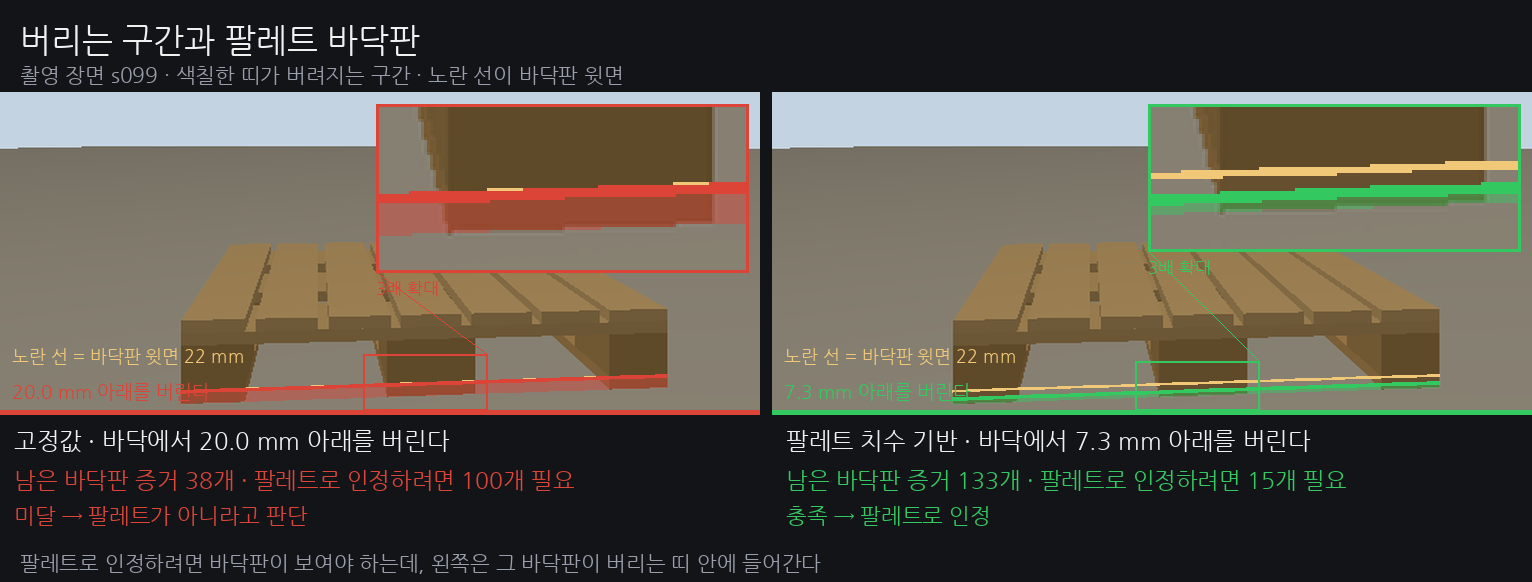
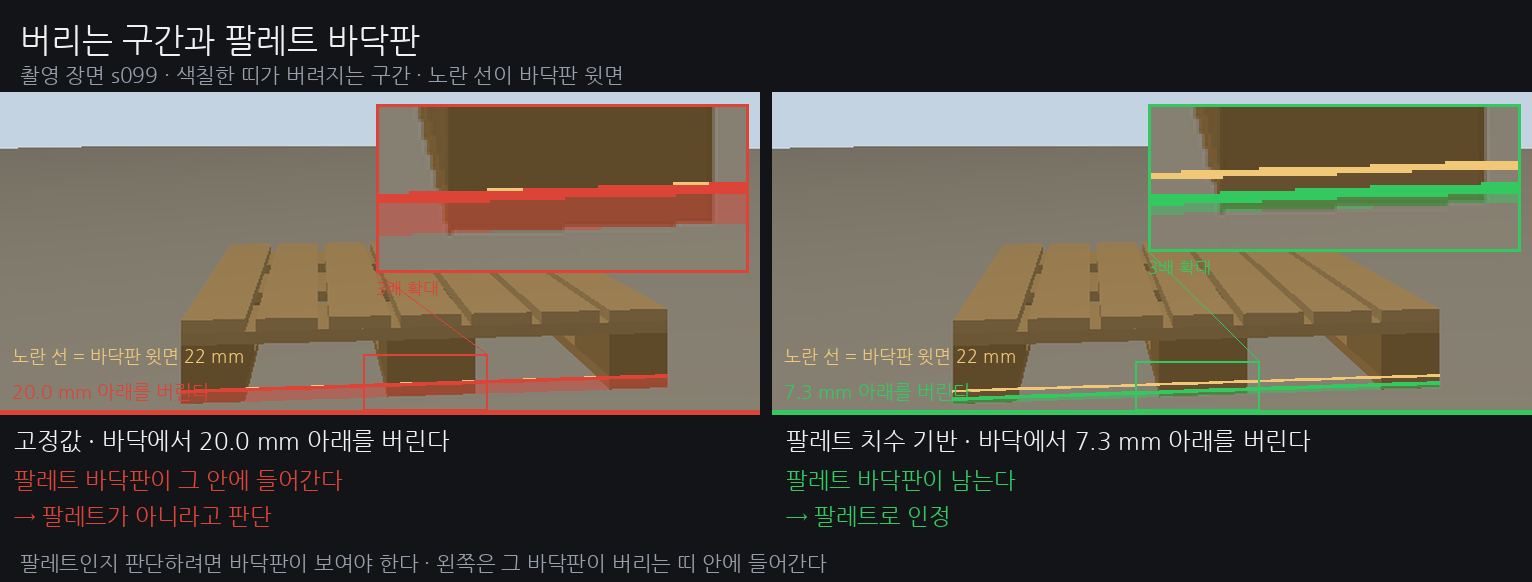
fix: say what the terms mean before the slide that uses them
Slides 5 and 6 assumed the audience already knew why a detector throws away
points near the floor, what counts as evidence that something is a pallet, and
why the required point count changes with pallet size. None of that was stated
anywhere in the deck, so the figures were being handed to people with no way to
read them.

Slide 4 now ends on the rule the later slides lean on: 기둥·빈 칸·위아래 판이
함께 보여야 팔레트로 인정. Slide 5 states in one line why near-floor points are
discarded and why 20 mm is the wrong height for a 22 mm board, and its figure
drops the two threshold numbers it could not explain. Slide 6 keeps them and
adds the reason they shrink: a smaller pallet returns fewer points from the
same part.

Claude-Session: https://claude.ai/code/session_01EDwbqCR7d7ymZ6Gm99cASC

Changed region(s): [[0.0, 0.8041, 0.3681, 0.8969], [0.4909, 0.8041, 0.8897, 0.9278], [0.0614, 0.9278, 0.5522, 0.9897]]

diff --git a/week-03/index.html b/week-03/index.html
@@ -57,7 +57,7 @@ EPAL 6 캡처와 평가: docs/validation/2026-09-14-epal6-capture-and-evaluation
 [/Sources]" style="background:#fff">
 <x-import component-from-global-scope="UOSSlideDS.ContentSlide" hint-size="100%,100%" title="03  포켓 인식 처리 과정"><div class="slide-body">
 <figure class="shot wide"><img class="media" src="assets/20_pipeline_stages.png" alt="깊이 영상, 작업 영역, 평면 후보, 기둥·빈칸 격자, 포켓 자세의 다섯 단계"><figcaption class="small muted">Gazebo 촬영 장면 · 단계별 중간 결과</figcaption></figure>
-<div class="takeaway">학습 없이 치수와 모양만으로 판별</div>
+<div class="takeaway">기둥·빈 칸·위아래 판이 함께 보여야 팔레트로 인정</div>
 <div class="foot"><span>대상 장면: 촬영 세트 s003</span><span>04 / 12</span></div></div></x-import>
 </section>
 
@@ -85,6 +85,7 @@ EPAL 6 캡처와 평가: docs/validation/2026-09-14-epal6-capture-and-evaluation
 [/Sources]" style="background:#fff">
 <x-import component-from-global-scope="UOSSlideDS.ContentSlide" hint-size="100%,100%" title="05  초기 설정의 한계"><div class="slide-body">
 <h2 class="headline">버린 점 안에 판별 근거가 있었다</h2>
+<p class="small muted">바닥에서 반사된 점이 팔레트 점과 섞이므로 일정 높이 아래는 버린다 · 그 높이가 20 mm로 고정돼 있었고 팔레트 바닥판은 22 mm다</p>
 <figure class="shot wide"><img class="media" src="assets/22_floor_cut.png" alt="촬영한 팔레트 화면에 버리는 구간을 색으로 칠한 비교. 왼쪽은 바닥판이 그 안에 들어간다"><figcaption class="small muted">색칠한 띠가 버려지는 구간 · 노란 선이 바닥판 윗면</figcaption></figure>
 <div class="takeaway">시험 자세 125개 중 12개만 검출</div>
 <div class="foot"><span>출처: 측정 기록 2026-09-14</span><span>06 / 12</span></div></div></x-import>
@@ -101,7 +102,7 @@ EPAL 6 캡처와 평가: docs/validation/2026-09-14-epal6-capture-and-evaluation
 <x-import component-from-global-scope="UOSSlideDS.ContentSlide" hint-size="100%,100%" title="06  기준값 산출 방식"><div class="slide-body">
 <h2 class="headline">기준값을 치수에서 계산한다</h2>
 <figure class="shot wide"><video class="media" src="assets/04_frozen_vs_derived.mp4" autoplay loop muted playsinline aria-label="같은 주행을 종전 고정값과 규격 기반 산출값으로 나란히 재생"></video><figcaption class="small muted">같은 주행 183장 · 좌 종전 0장, 우 계산값 150장 검출 · 측정 리그</figcaption></figure>
-<div class="rule body">바닥 제거 <b>20 → 7.3 mm</b> · 면 두께 <b>20 → 7.8 mm</b> · 최소 측정점 <b>100 → 15</b></div>
+<div class="rule body">바닥 제거 <b>20 → 7.3 mm</b> · 면 두께 <b>20 → 7.8 mm</b> · 팔레트로 인정할 최소 측정점 <b>100 → 15</b><br>팔레트가 작아지면 같은 부위에서 나오는 측정점도 줄어들므로 기준 개수도 함께 줄인다</div>
 <div class="takeaway">축소 T11도 16개 → 59개 검출</div>
 <div class="foot"><span>화면 생성: 측정 리그 · 물체까지의 거리 계산 도구</span><span>07 / 12</span></div></div></x-import>
 </section>

diff --git a/week-03/build_deck.py b/week-03/build_deck.py
@@ -65,7 +65,7 @@ add('2D LiDAR 관측 범위', '02  2D LiDAR 관측 범위', 55, f"""
 # ----------------------------------------------------------------- 4
 add('포켓 인식 처리 과정', '03  포켓 인식 처리 과정', 55, f"""
 {figure('20_pipeline_stages.png', '깊이 영상, 작업 영역, 평면 후보, 기둥·빈칸 격자, 포켓 자세의 다섯 단계', 'Gazebo 촬영 장면 · 단계별 중간 결과')}
-<div class="takeaway">학습 없이 치수와 모양만으로 판별</div>
+<div class="takeaway">기둥·빈 칸·위아래 판이 함께 보여야 팔레트로 인정</div>
 """,
     """깊이 영상은 화면의 각 지점에 카메라에서 물체까지의 거리를 기록한 영상이다. 이 영상에서 팔레트 앞면처럼 바닥에 수직으로 서 있는 평평한 면을 먼저 찾는다. 그림의 평면 잔차는 측정점과 찾은 면 사이의 거리이며, p95는 그 거리의 95퍼센트가 해당 값 이하인 경계이다. 면을 세로로 긴 칸인 격자로 나누어 기둥이 있는 칸과 빈 칸을 구분한다. 네 번째 그림에서 초록은 기둥, 자홍은 빈 칸이다. 빈 칸이 이어진 구간을 포크가 들어갈 구멍의 후보로 정한다. 구멍의 폭과 두 구멍 사이를 받치는 기둥의 폭이 규격에 맞고, 위아래 판도 함께 보일 때 포켓으로 판정한다. 많은 예시를 학습시켜 판단하는 모델은 사용하지 않았다. 학습용 자료를 모으기 전에도 동작하고, 실패한 단계와 원인을 확인할 수 있도록 치수와 모양을 이용하였다.""",
     [(M2, '검출기 설계와 단계 정의'), (EV, '측정 리그와 단계별 증거')], '대상 장면: 촬영 세트 s003')
@@ -82,6 +82,7 @@ add('시험용 팔레트 선정', '04  시험용 팔레트 선정', 50, f"""
 # ----------------------------------------------------------------- 6
 add('초기 설정의 한계', '05  초기 설정의 한계', 55, f"""
 <h2 class="headline">버린 점 안에 판별 근거가 있었다</h2>
+<p class="small muted">바닥에서 반사된 점이 팔레트 점과 섞이므로 일정 높이 아래는 버린다 · 그 높이가 20 mm로 고정돼 있었고 팔레트 바닥판은 22 mm다</p>
 {figure('22_floor_cut.png', '촬영한 팔레트 화면에 버리는 구간을 색으로 칠한 비교. 왼쪽은 바닥판이 그 안에 들어간다', '색칠한 띠가 버려지는 구간 · 노란 선이 바닥판 윗면')}
 <div class="takeaway">시험 자세 125개 중 12개만 검출</div>
 """,
@@ -93,7 +94,7 @@ add('초기 설정의 한계', '05  초기 설정의 한계', 55, f"""
 add('기준값 산출 방식', '06  기준값 산출 방식', 65, f"""
 <h2 class="headline">기준값을 치수에서 계산한다</h2>
 {figure('04_frozen_vs_derived.mp4', '같은 주행을 종전 고정값과 규격 기반 산출값으로 나란히 재생', '같은 주행 183장 · 좌 종전 0장, 우 계산값 150장 검출 · 측정 리그')}
-<div class="rule body">바닥 제거 <b>20 → 7.3 mm</b> · 면 두께 <b>20 → 7.8 mm</b> · 최소 측정점 <b>100 → 15</b></div>
+<div class="rule body">바닥 제거 <b>20 → 7.3 mm</b> · 면 두께 <b>20 → 7.8 mm</b> · 팔레트로 인정할 최소 측정점 <b>100 → 15</b><br>팔레트가 작아지면 같은 부위에서 나오는 측정점도 줄어들므로 기준 개수도 함께 줄인다</div>
 <div class="takeaway">축소 T11도 16개 → 59개 검출</div>
 """,
     """앞 장의 고정된 기준값을 팔레트 치수에서 계산하도록 변경하였다. 길이 기준은 팔레트를 줄인 비율만큼 줄인다. 측정점 개수 기준은 보이는 면적에 맞추므로, 길이를 줄인 비율을 두 번 곱하여 적용한다. 바닥 부근의 측정점을 제거하는 높이는 바닥판 두께의 3분의 1로 정하였다. 화면은 물체까지의 거리를 계산하는 도구인 측정 리그로 만든 동일 주행 영상이다. 영상 한 장을 프레임이라고 하며, 동일 주행 183 프레임에 두 설정을 적용하였다. 좌측의 기존 고정값은 모든 프레임에서 포켓을 찾지 못하였고, 우측의 계산값은 150 프레임에서 두 포켓을 찾았다. 하단 띠는 각 프레임의 검출 여부를 나타낸다. 팔레트 규격이 바뀌면 코드를 고치는 대신 새 치수를 입력할 수 있다. 제작 예정인 축소 T11 모델도 시험 자세 60개 중 검출한 자세가 16개에서 59개로 늘었다. 제작 후에는 실제로 잰 치수를 입력하여 기준값을 다시 계산한다.""",
